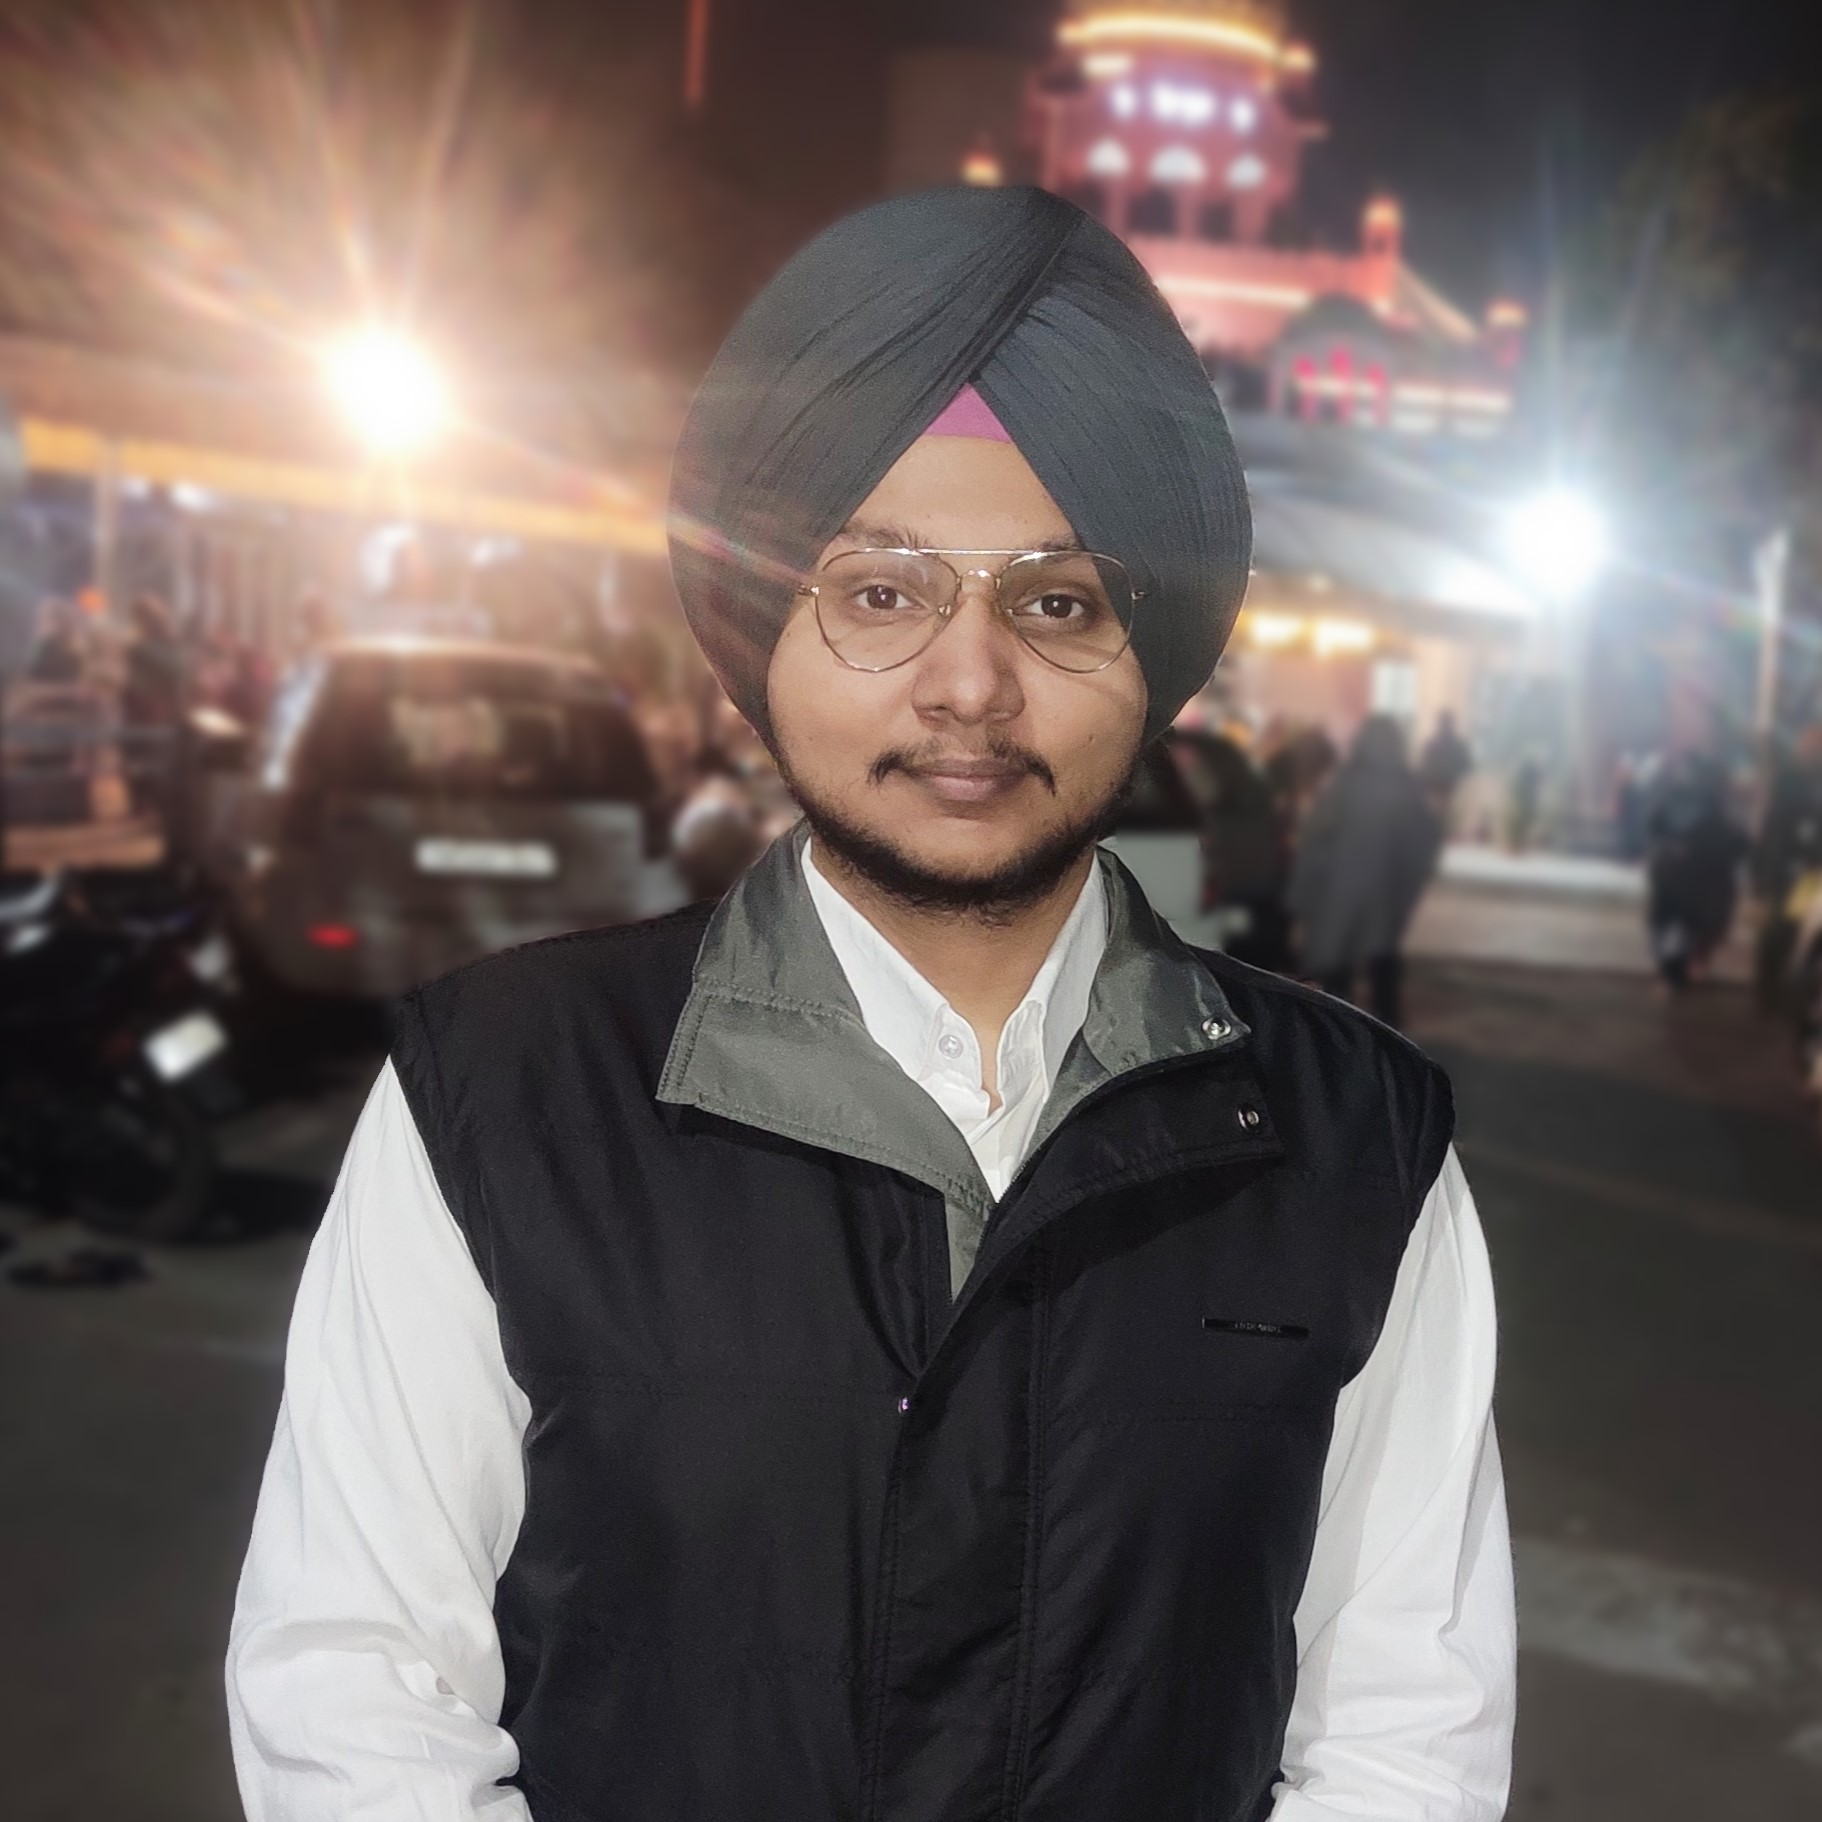
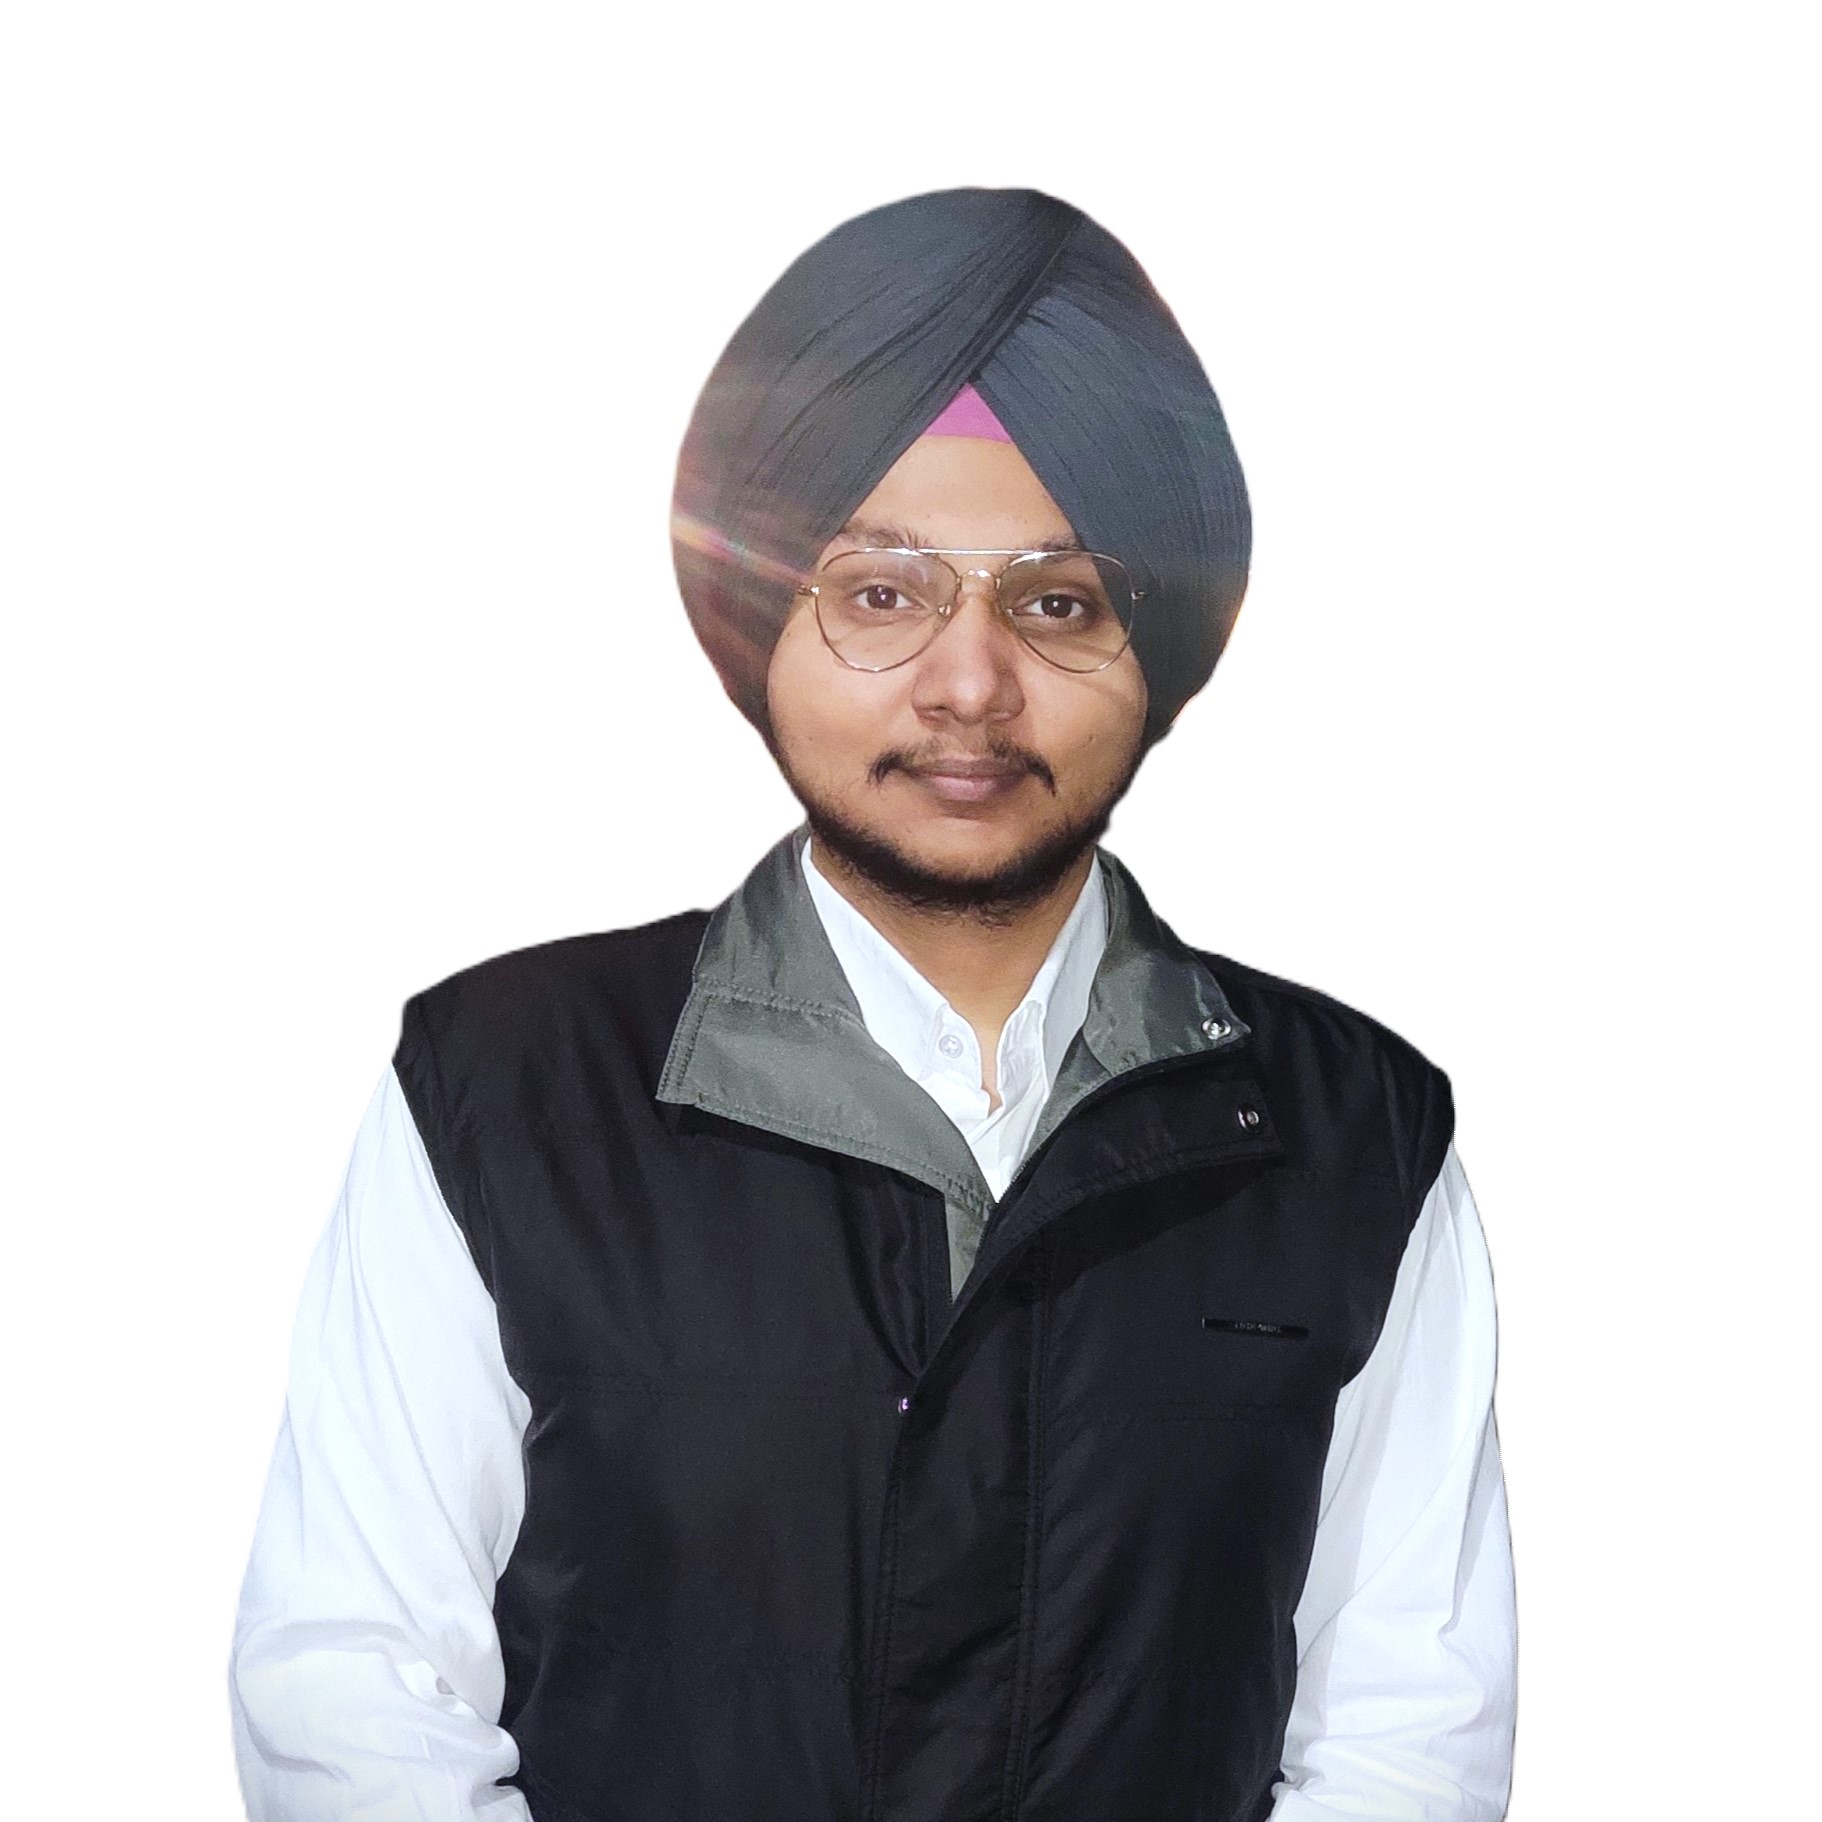
ui fixed

diff --git a/src/App.jsx b/src/App.jsx
@@ -1,4 +1,4 @@
-import img2 from "./assets/my-image3.jpg";
+import img2 from "./assets/my-image3.png";
 import { useEffect,useState } from "react";
 import resumePdf from './resume.pdf';
 
@@ -13,7 +13,7 @@ function App() {
 
   const [typedText, setTypedText] = useState('');
   const [charIndex, setCharIndex] = useState(0);
-  const textToType = "I am proficient in: \nReactJS - Javascript Framework\nMongoDb - Database\nNode Environment\nI make website using this stack called MERN Stack.";
+  const textToType = "I am proficient in: \nReactJS\nMongoDb - Database\nNode Environment\nJavascript";
   const typingSpeed = 50; // Milliseconds per character
 
   useEffect(() => {
@@ -34,7 +34,7 @@ function App() {
   return (
     <>
     <div className='bg-gradient-to-r from-cyan-400 to-blue-400'> 
-      <nav className="fixed top-0 left-0 right-0 z-10 flex justify-around p-4 bg-gray-800 text-white">
+      <nav className="fixed grid grid-cols-3 lg:grid-cols-6 gap-6 p-4 bg-gray-800 text-white w-full">
         <button onClick={() => scrollToSection("home")} className="hover:text-gray-300 focus:outline-none">Home</button>
         <button onClick={() => scrollToSection("about")} className="hover:text-gray-300 focus:outline-none">About Me</button>
         <button onClick={() => scrollToSection("projects")} className="hover:text-gray-300 focus:outline-none">Projects</button>
@@ -44,10 +44,12 @@ function App() {
 
       </nav>
 
-      <div id='home' className='pt-20'>
-        <div className='flex justify-around p-20'>
-          <img className='size-96 rounded-3xl' src={img2} alt="Simar's image"/>
-          <div className='bg-gray-200 py-10 px-5 rounded-lg'>
+      <div id='home' className='pt-40 lg:pt-20'>
+        <div className='flex justify-around p-10 space-x-4 flex-col md:flex-row'>
+          <img className='size-96 rounded-3xl 
+          bg-gradient-to-r from-blue-400 to-cyan-400
+           border-2 border-gray-900 shadow-lg' src={img2} alt="Simar's image"/>
+          <div className='bg-gray-200 py-10 px-5 rounded-lg shadow-lg my-10'>
             <h3 className='text-3xl my-5 text-blue-900'>Harsimarjit Singh</h3>
             <p>I am a Software Engineer with passion for problem solving with web development.</p>
             <pre className="text-md">{typedText}</pre>
